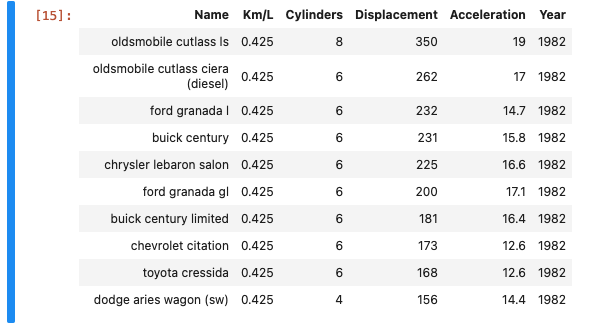
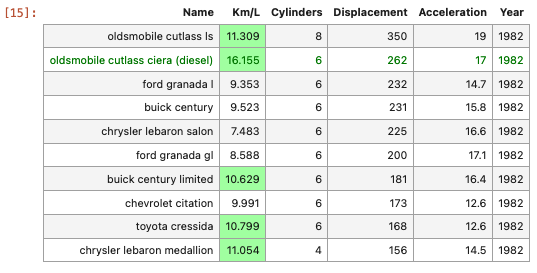
UPDATE: allow utils.table

Changed region(s): [[0.0894, 0.0879, 1.0, 0.967], [0.0, 0.0, 0.1192, 0.9963], [0.298, 0.0293, 0.9832, 0.0586]]

diff --git a/src/TableGenerator.js b/src/TableGenerator.js
@@ -22,7 +22,7 @@ const ArrayUtils = require('./array');
 const { createSort } = require('./array');
 
 /**
- * Class that renders a table
+ * Generates and or Renders Tables (Markdown, CSS, HTML, or plain arrays)
  * 
  * For example:
  * 
@@ -31,31 +31,60 @@ const { createSort } = require('./array');
  * ```
  * 
  * ```
- * new utils.TableGenerator(cars)
+ * utils.table(cars)
  *    .limit(2)
- *    .render()
+ *    .render();
  * ```
  * 
  * ![Screenshot of simple example](img/TableGenerator_simple.png)
  * 
  * ```
- * new utils.TableGenerator(cars)
+ * //-- with many options to tailor and format the table
+ * 
+ * utils.table(cars)
+ * 
+ *    //-- sort by year field (descending), Displacement (descending), Name (ascending)
  *    .sort('-Year', '-Displacement', 'Name')
+ *    
+ *    //-- limit to only the first 10 records
  *    .limit(10)
+ *    
+ *    //-- add in a new field / column called Kilometer_per_Litre
  *    .augment({
  *         'Kilometer_per_Litre': (row) => row.Miles_per_Gallon * 0.425144
  *    })
+ * 
+ *    //-- specify the columns to show by list of fields
  *    .columns('Name', 'Kilometer_per_Litre', 'Cylinders', 'Displacement', 'Acceleration', 'Year')
+ * 
+ *    //-- format how a field / column is rendered by ({ property: fn })
  *    .formatter({
  *        Year: (value) => value ? value.slice(0,4) : value
  *    })
+ * 
+ *    //-- make specific column headers more legible with ({ property: header })
  *    .labels({
  *        'Kilometer_per_Litre': 'Km/L'
  *    })
+ * 
+ *    //-- high light rows and cells based on data
+ *    .styleCell(({columnIndex, value}) => columnIndex === 1 && value > 10
+ *             ? 'background-color: #AAFFAA;' : ''
+ *    )
+ *    .styleRow(({record}) => record.Name.includes('diesel')
+ *             ? 'color: green;' : ''
+ *    )
+ * 
  *    .render()
  * ```
  * 
  * ![Screenshot of complex example](img/TableGenerator_complex.png)
+ * 
+ * ```
+ * //-- note, `utils.table(...)`
+ * //-- is the same as `new utils.TableGenerator(...)`
+ * //-- and now available as of `1.12.0`
+ * ```
  * 
  * # Types of calls:
  * 
@@ -299,7 +328,7 @@ class TableGenerator {
    * 
    * sourceData = [{id: 1, temp_F:98}, {id: 2, temp_F:99}, {id: 3, temp_F:100}];
    * 
-   * new utils.TableGenerator(sourceData)
+   * utils.table(sourceData)
    *  .augment({
    *    temp_C: (row) => (row.temp_F - 32) * 0.5556,
    *    temp_K: (row) => (row.temp_F - 32) * 0.5556 + 1000
@@ -362,7 +391,7 @@ class TableGenerator {
    * ```
    * sourceData = [{id: 1, temp_F:98}, {id: 2, temp_F:99}, {id: 3, temp_F:100}];
    * 
-   * new utils.TableGenerator(sourceData)
+   * utils.table(sourceData)
    *    .border('1px solid #aaa')
    *    .render();
    * ```
@@ -558,7 +587,7 @@ class TableGenerator {
    *   { propA: ' 234234', propB: 234234, isBoolean: 1},
    * ];
    * 
-   * new utils.TableGenerator(data)
+   * utils.table(data)
    *   .formatter({
    *     //-- convert Prop A to Number - so render with Locale Number Formatting
    *     propA: 'number',
@@ -697,7 +726,7 @@ class TableGenerator {
    *    {id: 1, dateTime:new Date(2022,3,4,9), child: { results: true }}
    * ];
    * 
-   * console.log(new utils.TableGenerator(dataSet)
+   * console.log(utils.table(dataSet)
    *     .generateMarkdown({align: true})
    * )
    * 
@@ -715,7 +744,7 @@ class TableGenerator {
    *    {id: 1, dateTime:new Date(2022,3,4,9), child: { results: true }}
    * ];
    * 
-   * console.log(new utils.TableGenerator(dataSet)
+   * console.log(utils.table(dataSet)
    *     .printOptions({ collapseObjects: true, dateFormat: 'toISOString'})
    *     .generateMarkdown({align: true})
    * )
@@ -787,7 +816,7 @@ class TableGenerator {
    *  ];
    *  
    * //-- only show the temp and source columns
-   * new utils.TableGenerator(dataSet)
+   * utils.table(dataSet)
    *   .columns('temp', 'source') // or .columns(['temp', 'source'])
    *   .styleTable('border:1px solid #000')
    *   .render();
@@ -815,7 +844,7 @@ class TableGenerator {
    *  ];
    *  
    * //-- only show the temp and source columns
-   * new utils.TableGenerator(dataSet)
+   * utils.table(dataSet)
    *   .columns('temp', 'source') // or .columns(['temp', 'source'])
    *   .styleHeader('border: 1px solid #000;')
    *   .render();
@@ -843,7 +872,7 @@ class TableGenerator {
    * ];
    * 
    * //-- only show the temp and source columns
-   * new utils.TableGenerator(dataSet)
+   * utils.table(dataSet)
    *   .columns('temp', 'source') // or .columns(['temp', 'source'])
    *   .styleRow(({rowIndex, row, record}) => {
    *     return (record.source === 'A') ? `color: #0A0;` : `color: #A00`;
@@ -885,7 +914,7 @@ class TableGenerator {
    * colorRange = new utils.svg.svgJS.Color('#0A0').to('#F00');
    * 
    * //-- only show the temp and source columns
-   * new utils.TableGenerator(dataSet)
+   * utils.table(dataSet)
    *   .styleCell(({value, columnIndex, rowIndex, row, record}) => {
    *     //-- style the color of the cell from Red:0 to Green:1
    *     // record is the exact record provided to data / the generator
@@ -933,7 +962,7 @@ class TableGenerator {
    * Running normally would give
    * 
    * ```
-   * new utils.TableGenerator(data)
+   * utils.table(data)
    *    .generateMarkdown();
    * ```
    * 
@@ -945,7 +974,7 @@ class TableGenerator {
    * Running that transposed flips it.
    * 
    * ```
-   * new utils.TableGenerator(data)
+   * utils.table(data)
    *  .transpose()
    *  .generateMarkdown();
    * ```
@@ -1267,7 +1296,7 @@ class TableGenerator {
    *   { id: 8, city: 'Chicago',  month: 'Dec', precip: 2.56 },
    *   { id: 7, city: 'Chicago',  month: 'Aug', precip: 3.98 }
    * ];
-   * new utils.TableGenerator(weather)
+   * utils.table(weather)
    *     .render();
    * ```
    * 
@@ -1302,7 +1331,7 @@ class TableGenerator {
    *   { id: 8, city: 'Chicago',  month: 'Dec', precip: 2.56 },
    *   { id: 7, city: 'Chicago',  month: 'Aug', precip: 3.98 }
    * ];
-   * new utils.TableGenerator(weather)
+   * utils.table(weather)
    *     .renderMarkdown();
    * 
    * // id|city    |month|precip
@@ -1341,7 +1370,7 @@ class TableGenerator {
    *   { id: 8, city: 'Chicago',  month: 'Dec', precip: 2.56 },
    *   { id: 7, city: 'Chicago',  month: 'Aug', precip: 3.98 }
    * ];
-   * new utils.TableGenerator(weather)
+   * utils.table(weather)
    *     .renderCSV();
    * 
    * // "id","city","month","precip"

diff --git a/src/index.js b/src/index.js
@@ -17,6 +17,10 @@ const svg = require('./svg');
 const SourceMap = require('./SourceMap');
 const TableGenerator = require('./TableGenerator');
 
+const table = function table(...rest) {
+  return new TableGenerator(...rest);
+};
+
 /**
  * Default module
  * @module index
@@ -60,5 +64,7 @@ module.exports = {
   /** @see SourceMap */
   SourceMap,
   /** @see TableGenerator */
-  TableGenerator
+  TableGenerator,
+  /** @see TableGenerator */
+  table
 };

diff --git a/README.md b/README.md
@@ -7,7 +7,7 @@
     </a>
     <img src="https://img.shields.io/badge/Coverage-98-green" />
     <a href="https://github.com/paulroth3d/jupyter-ijavascript-utils" alt="npm">
-        <img src="https://img.shields.io/badge/npm-%5E1.11.0-red" />
+        <img src="https://img.shields.io/badge/npm-%5E1.12.0-red" />
     </a>
 </p>
 
@@ -21,6 +21,7 @@ See documentation at: [https://jupyter-ijavascript-utils.onrender.com/](https://
 
 # What's New
 
+* 1.12 - provide `utils.table(...)` instead of `new utils.TableGenerator(...)`
 * 1.11 - provide topValues (like top 5, bottom 3)
 * 1.10 - provide percentile (like 50th percentile) aggregates
 * 1.9 - allow transposing results on TableGenerator.

diff --git a/DOCS.md b/DOCS.md
@@ -28,6 +28,7 @@ See the [#Installation section for requirements and installation](#install)
 
 ## What's New
 
+* 1.12 - provide `utils.table(...)` instead of `new utils.TableGenerator(...)`
 * 1.11 - provide {@link module:aggregate.topValues|topValues} (like top 5, bottom 3)
 * 1.10 - provide {@link module:aggregate.percentile|percentile} (like 50th percentile) aggregates
 * 1.9 - allow {@link TableGenerator#transpose|transposing results} on TableGenerator.
